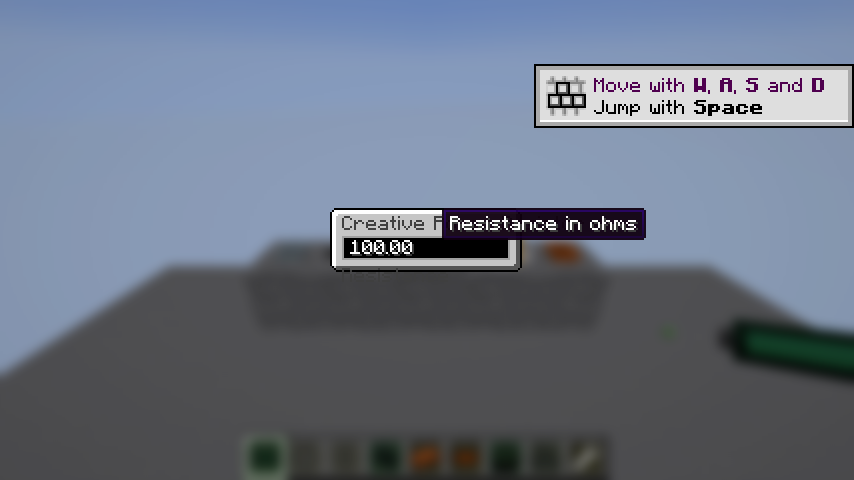
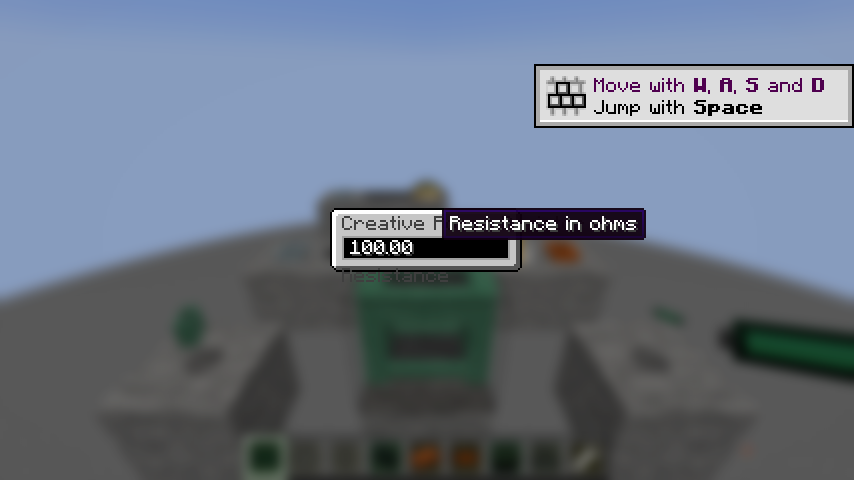
client: node renderers lit by their brightest neighbour, as 1.7.10's useNeighborBrightness did
The dispatcher lights a block entity with the light at its own position; inside a machine
that blocks light that is next to nothing, so every transparent node drew near black in
daylight. 1.7.10's NodeBlock set useNeighborBrightness, taking the brightest of the six
neighbours; the two node renderers do that themselves now (sky and block light separately,
the node's own emission counted).

Client smoke adds three hand screenshots: the macerator in hand from the front, through
the player's eyes, and a cable through the player's eyes (docs/port/smoke-hand-*-1.21.png).

Claude-Session: https://claude.ai/code/session_01Lb5izv3ykLxYcSCdMc8SmK

diff --git a/src/main/kotlin/mods/eln/node/NodeRenderSupport.kt b/src/main/kotlin/mods/eln/node/NodeRenderSupport.kt
@@ -1,5 +1,7 @@
 package mods.eln.node
 
+import net.minecraft.core.Direction
+import net.minecraft.world.level.LightLayer
 import net.minecraft.world.level.block.entity.BlockEntity
 import net.minecraft.world.phys.Vec3
 
@@ -16,4 +18,24 @@ object NodeRenderSupport {
     @JvmStatic
     fun shouldRender(entity: BlockEntity, cameraPos: Vec3, viewDistance: Int): Boolean =
         Vec3.atCenterOf(entity.blockPos).closerThan(cameraPos, viewDistance.toDouble())
+
+    /**
+     * The light to draw a node in. 1.7.10's NodeBlock set `useNeighborBrightness`, so a tile
+     * entity was lit by the brightest of its six neighbours; the dispatcher's light is the block's
+     * own, which inside a machine that blocks light is next to none. Sky and block light are taken
+     * separately, and the node's own emission counts, as the dispatcher's lookup does.
+     */
+    @JvmStatic
+    fun neighbourLight(entity: BlockEntity): Int {
+        val level = entity.level ?: return 15 shl 4 or (15 shl 20)
+        val pos = entity.blockPos
+        var sky = 0
+        var block = level.getBlockState(pos).getLightEmission(level, pos)
+        for (direction in Direction.entries) {
+            val neighbour = pos.relative(direction)
+            sky = maxOf(sky, level.getBrightness(LightLayer.SKY, neighbour))
+            block = maxOf(block, level.getBrightness(LightLayer.BLOCK, neighbour))
+        }
+        return block shl 4 or (sky shl 20)   // LightTexture.pack, without touching a client class from here
+    }
 }

diff --git a/src/main/kotlin/mods/eln/node/transparent/TransparentNodeRender.kt b/src/main/kotlin/mods/eln/node/transparent/TransparentNodeRender.kt
@@ -13,7 +13,7 @@ import net.minecraft.world.phys.Vec3
 class TransparentNodeRender : BlockEntityRenderer<TransparentNodeEntity> {
     override fun render(entity: TransparentNodeEntity, partialTicks: Float, poseStack: PoseStack, buffer: MultiBufferSource, packedLight: Int, packedOverlay: Int) {
         val elementRender = entity.elementRender ?: return
-        FixedFunction.begin(poseStack, buffer, packedLight, packedOverlay)
+        FixedFunction.begin(poseStack, buffer, NodeRenderSupport.neighbourLight(entity), packedOverlay)
         try {
             GL11.glPushMatrix()
             GL11.glTranslatef(.5f, .5f, .5f)

diff --git a/src/main/kotlin/mods/eln/node/six/SixNodeRender.kt b/src/main/kotlin/mods/eln/node/six/SixNodeRender.kt
@@ -16,7 +16,7 @@ import net.minecraft.world.phys.Vec3
 class SixNodeRender : BlockEntityRenderer<SixNodeEntity> {
     override fun render(entity: SixNodeEntity, partialTicks: Float, poseStack: PoseStack, buffer: MultiBufferSource, packedLight: Int, packedOverlay: Int) {
         Minecraft.getInstance().profiler.push("SixNode")
-        FixedFunction.begin(poseStack, buffer, packedLight, packedOverlay)
+        FixedFunction.begin(poseStack, buffer, NodeRenderSupport.neighbourLight(entity), packedOverlay)
         try {
             GL11.glPushMatrix()
             GL11.glTranslatef(.5f, .5f, .5f)

diff --git a/src/main/java/mods/eln/devtest/ClientSmokeTest.java b/src/main/java/mods/eln/devtest/ClientSmokeTest.java
@@ -32,7 +32,7 @@ public final class ClientSmokeTest {
     private static final String PREFIX = "SMOKE";
     private static final int X = 512, Z = 512, GROUND = 64;
 
-    private enum Phase { OPEN, JOIN, SETUP, WORLD_SHOT, NIGHT_SHOT, THIRD_PERSON_SHOT, GUI, GUI_SHOT, MACHINE_GUI, MACHINE_GUI_SHOT, INVENTORY, INVENTORY_SHOT, CREATIVE_TAB, CREATIVE_SHOT, DONE }
+    private enum Phase { OPEN, JOIN, SETUP, WORLD_SHOT, NIGHT_SHOT, THIRD_PERSON_SHOT, HAND_THIRD_SHOT, HAND_FIRST_SHOT, HAND_CABLE_SHOT, GUI, GUI_SHOT, MACHINE_GUI, MACHINE_GUI_SHOT, INVENTORY, INVENTORY_SHOT, CREATIVE_TAB, CREATIVE_SHOT, DONE }
 
     private final String save;
     private Phase phase = Phase.OPEN;
@@ -114,7 +114,29 @@ public final class ClientSmokeTest {
             case THIRD_PERSON_SHOT -> {
                 if (wait++ < 60) return;
                 shot(mc, "smoke-third-person");
+                // the machine in hand, seen from the front, then through the player's eyes, then a cable
+                mc.player.getInventory().selected = 3;
+                mc.options.setCameraType(net.minecraft.client.CameraType.THIRD_PERSON_FRONT);
+                phase = Phase.HAND_THIRD_SHOT;
+                wait = 0;
+            }
+            case HAND_THIRD_SHOT -> {
+                if (wait++ < 40) return;
+                shot(mc, "smoke-hand-third");
                 mc.options.setCameraType(net.minecraft.client.CameraType.FIRST_PERSON);
+                phase = Phase.HAND_FIRST_SHOT;
+                wait = 0;
+            }
+            case HAND_FIRST_SHOT -> {
+                if (wait++ < 40) return;
+                shot(mc, "smoke-hand-first");
+                mc.player.getInventory().selected = 0;
+                phase = Phase.HAND_CABLE_SHOT;
+                wait = 0;
+            }
+            case HAND_CABLE_SHOT -> {
+                if (wait++ < 40) return;
+                shot(mc, "smoke-hand-cable");
                 phase = Phase.GUI;
                 wait = 0;
             }
